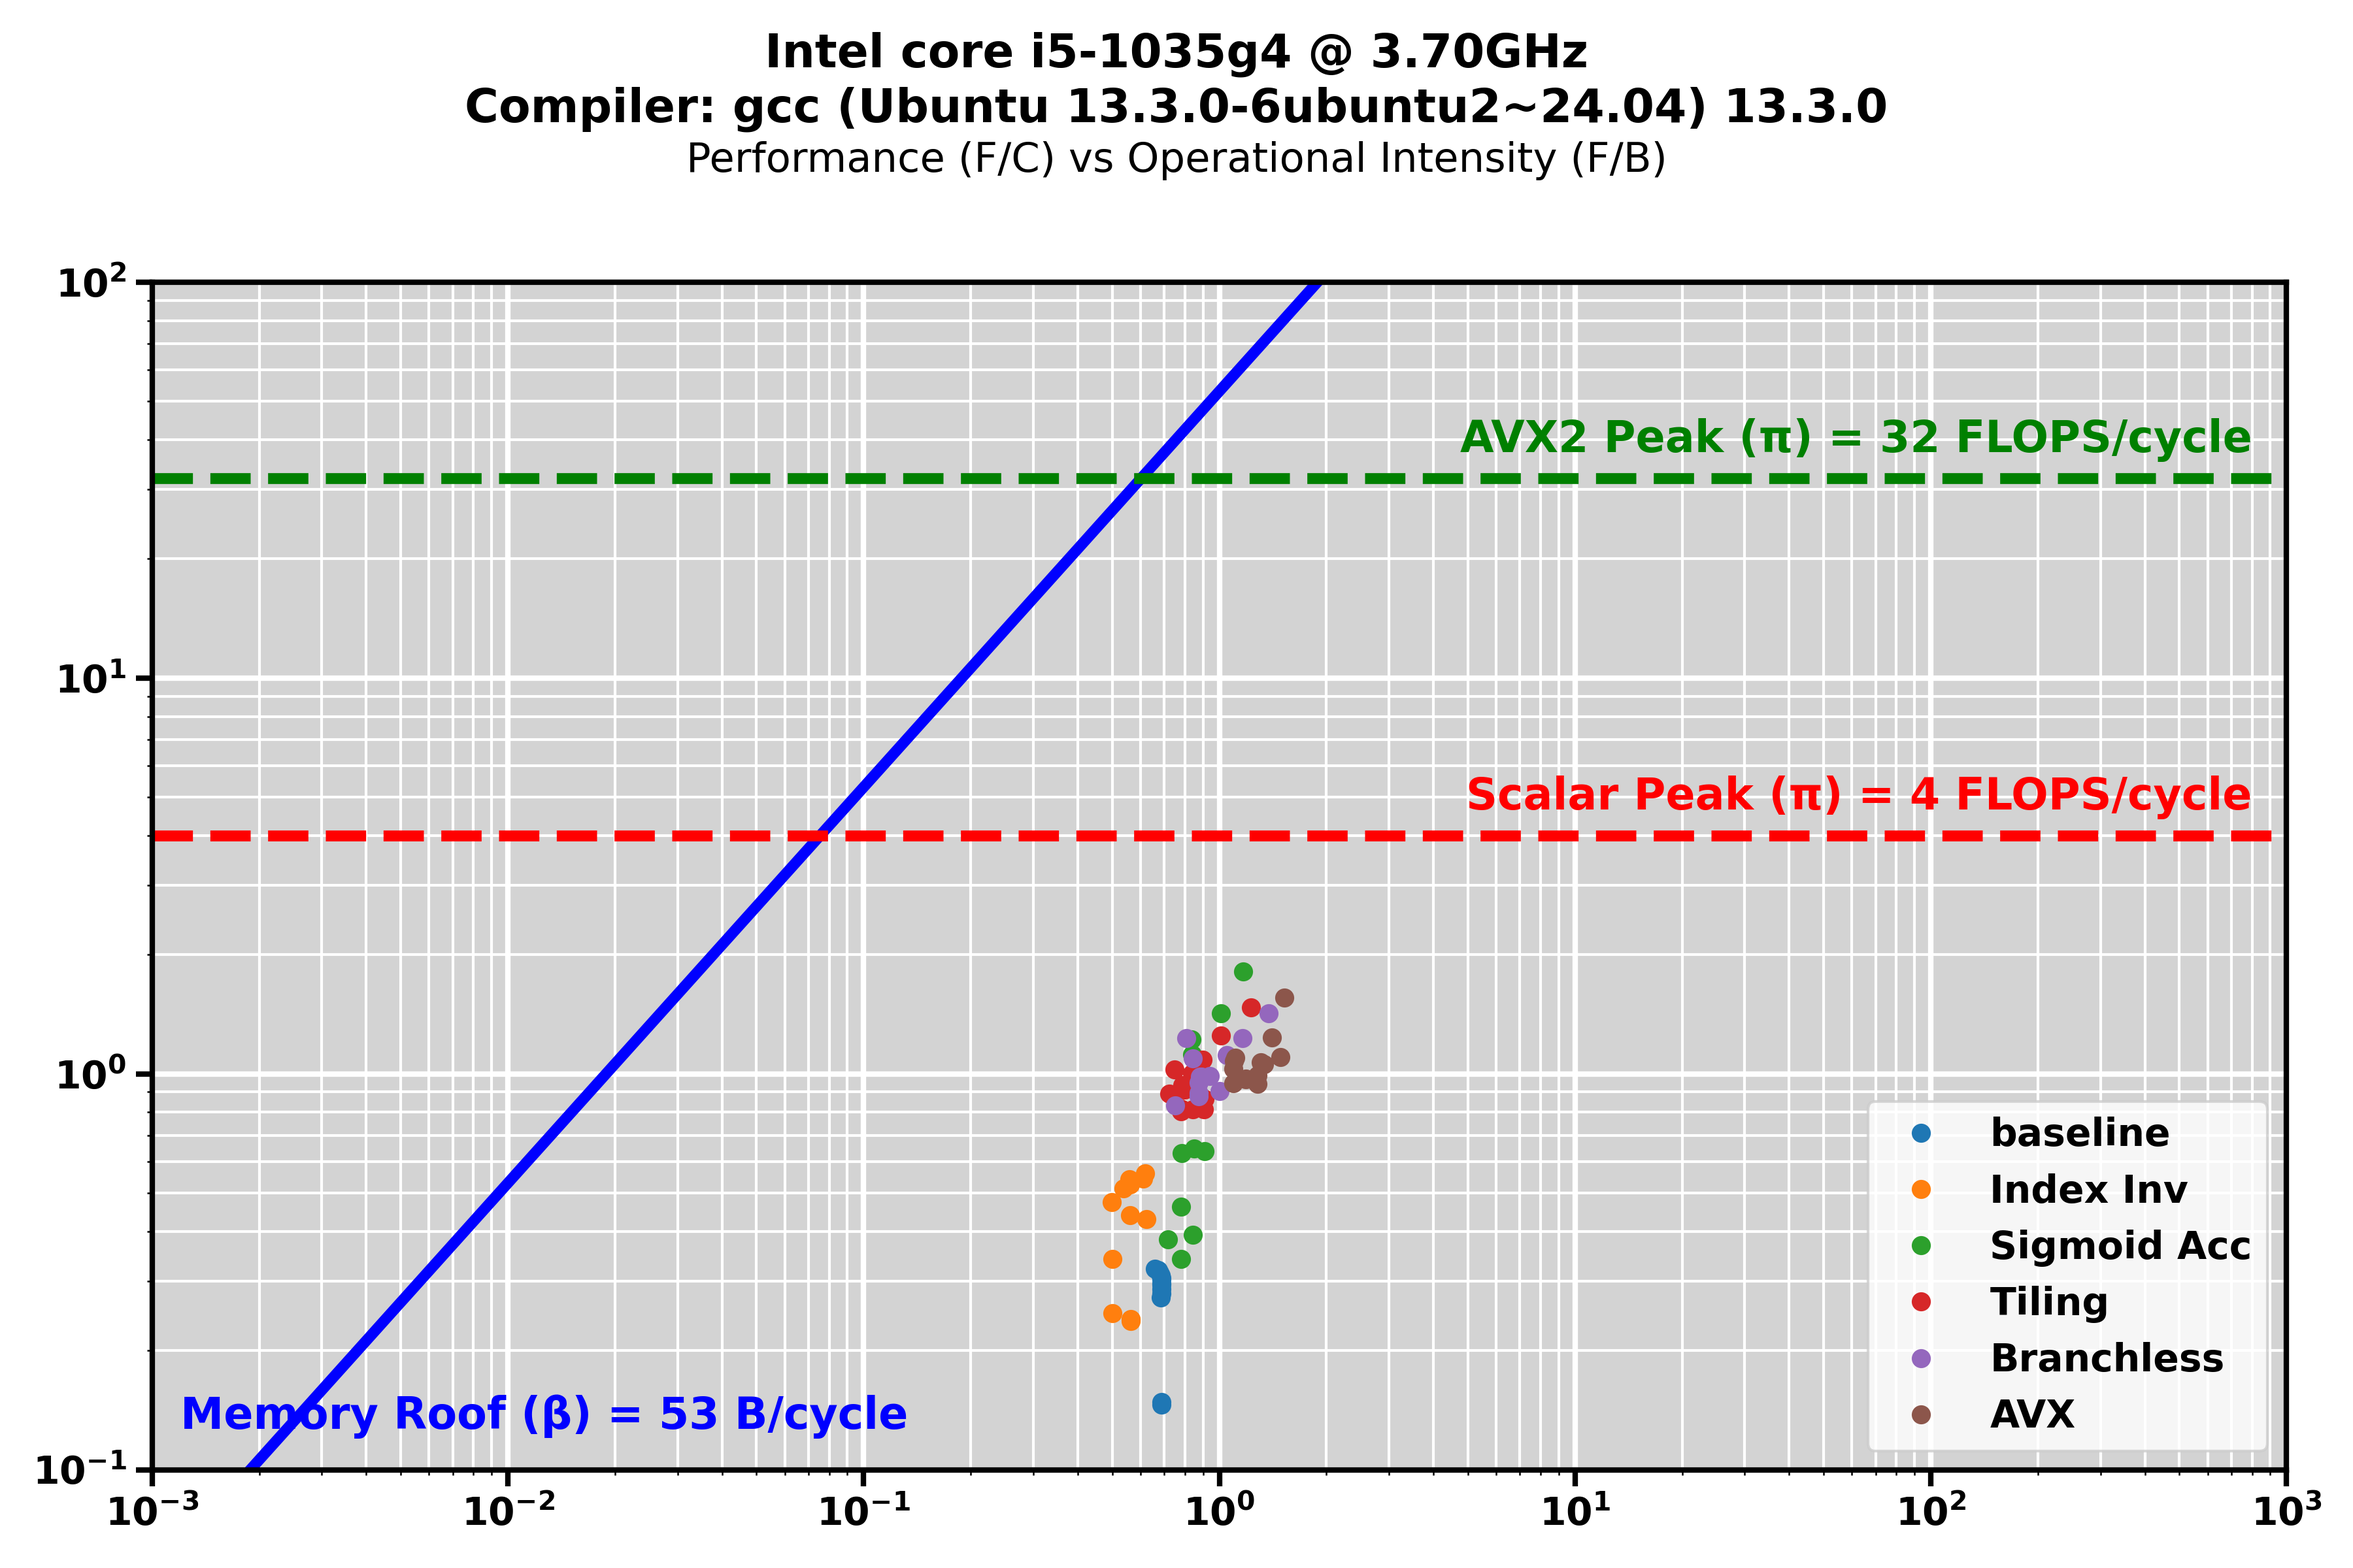
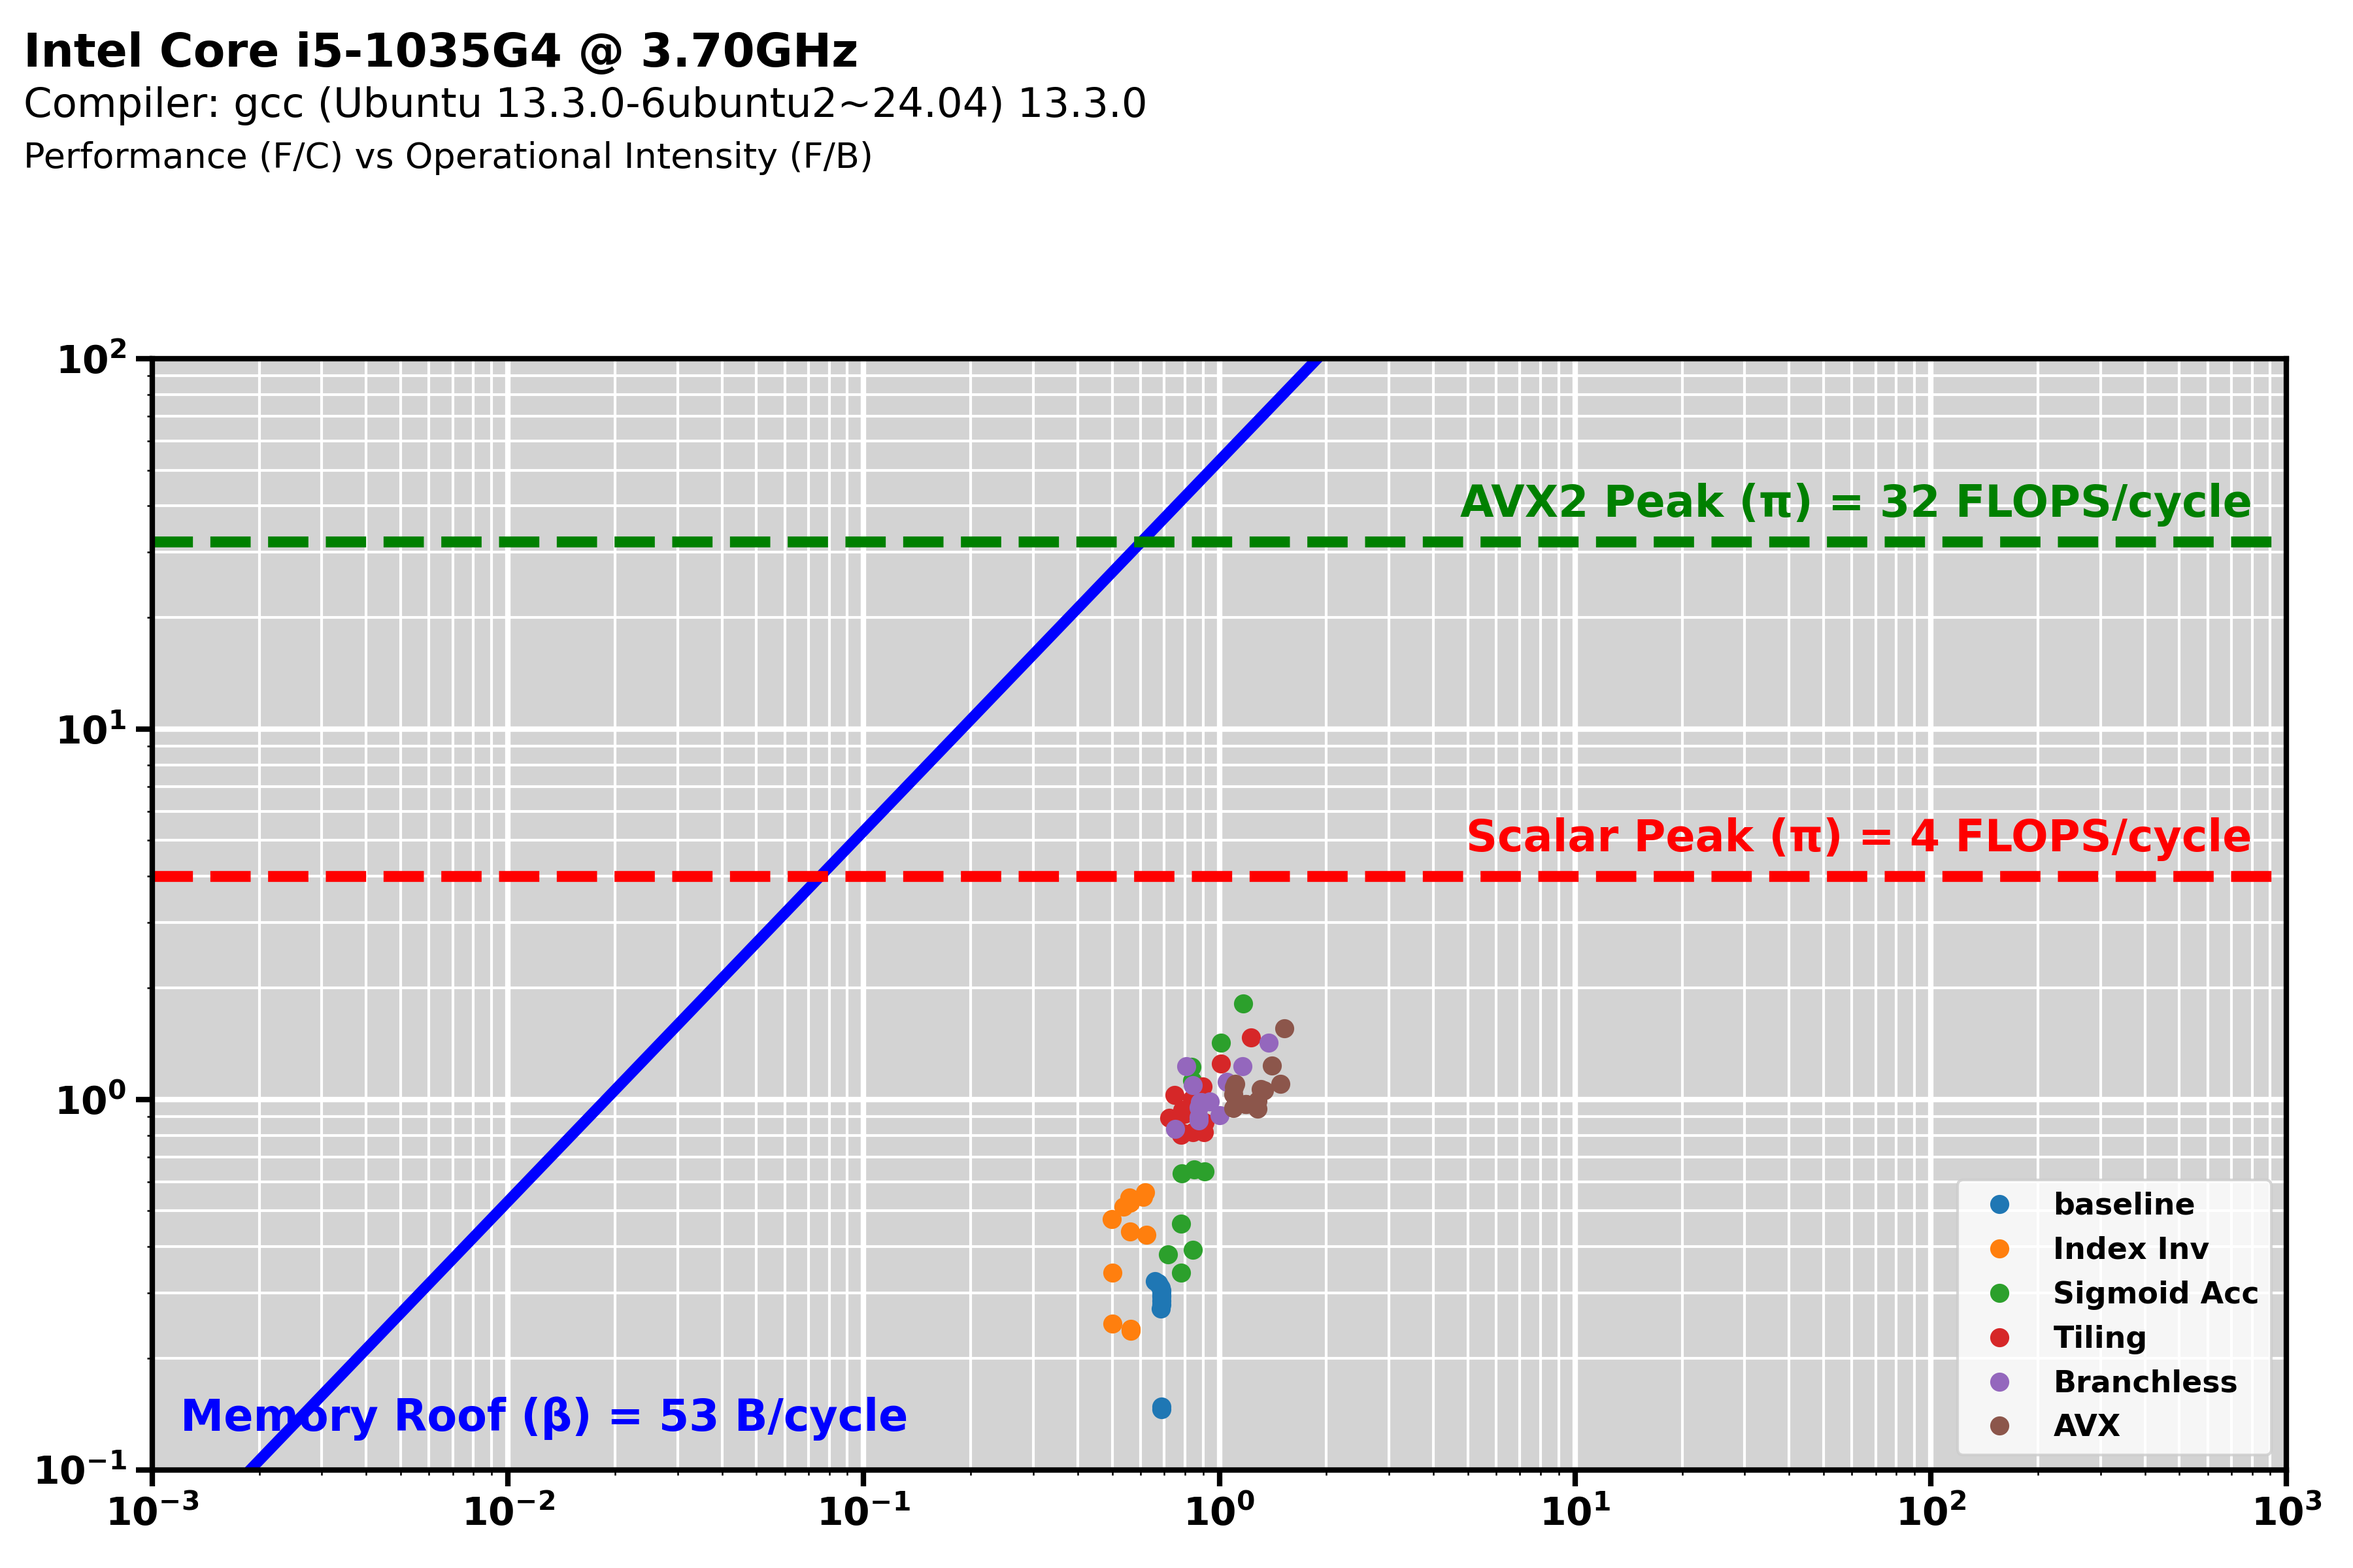
plot

Changed region(s): [[0.0311, 0.1562, 0.9956, 0.9375], [0.0, 0.0, 0.8089, 0.125]]

diff --git a/roofline/roofline_plot.py b/roofline/roofline_plot.py
@@ -124,7 +124,7 @@ class RooflinePlot:
         ax.grid(True, which='minor', color='white', linestyle='-', linewidth=1)
 
         handles, labels = ax.get_legend_handles_labels()
-        ax.legend(handles, labels, loc='lower right', prop={'size': 14, 'weight': 'bold'}, framealpha=0)
+        ax.legend(handles, labels, loc='lower right', prop={'size': 11, 'weight': 'bold'})
 
         # Tight layout
         fig.tight_layout(rect=[0, 0, 1, 0.85])
